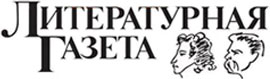
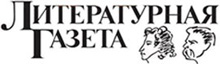
60341 index page fixes

diff --git a/web/css/main.css b/web/css/main.css
@@ -862,19 +862,20 @@ body {
         }
         .newspaper a{
             display:block;
+            margin:0 auto;
             text-decoration:none;
             outline:0;
             background-position:0 0;
             background-repeat:no-repeat;
         }
         .newspaper-literature a{
-            width:270px;
-            height:79px;
+            width:220px;
+            height:64px;
             background-image:url(../img/newspaper-literature.jpg);
         }
         .newspaper-culture a{
-            width:267px;
-            height:74px;
+            width:220px;
+            height:61px;
             background-image:url(../img/newspaper-culture.jpg);
         }
 
@@ -6726,7 +6727,7 @@ body {
             .fc-col-block{
                 padding:0 40px;
 			border:solid #e9e9e9;
-			border-width:0 1px;
+			border-width:0 0 0 1px;
             }
             .fc-col{
                 float:left;
